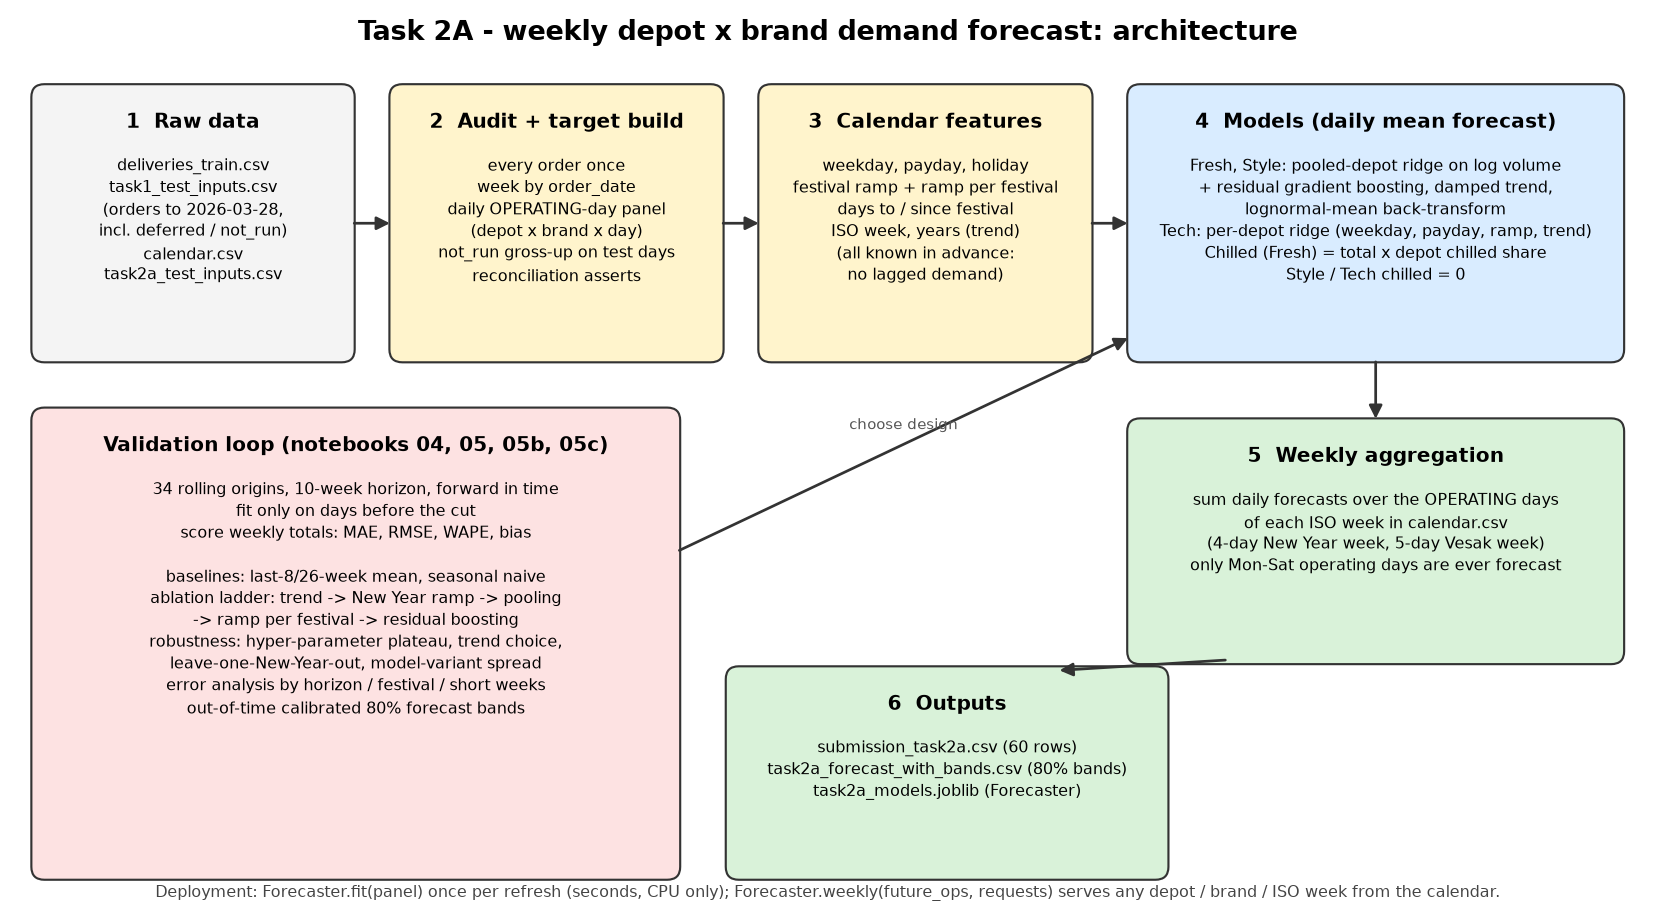
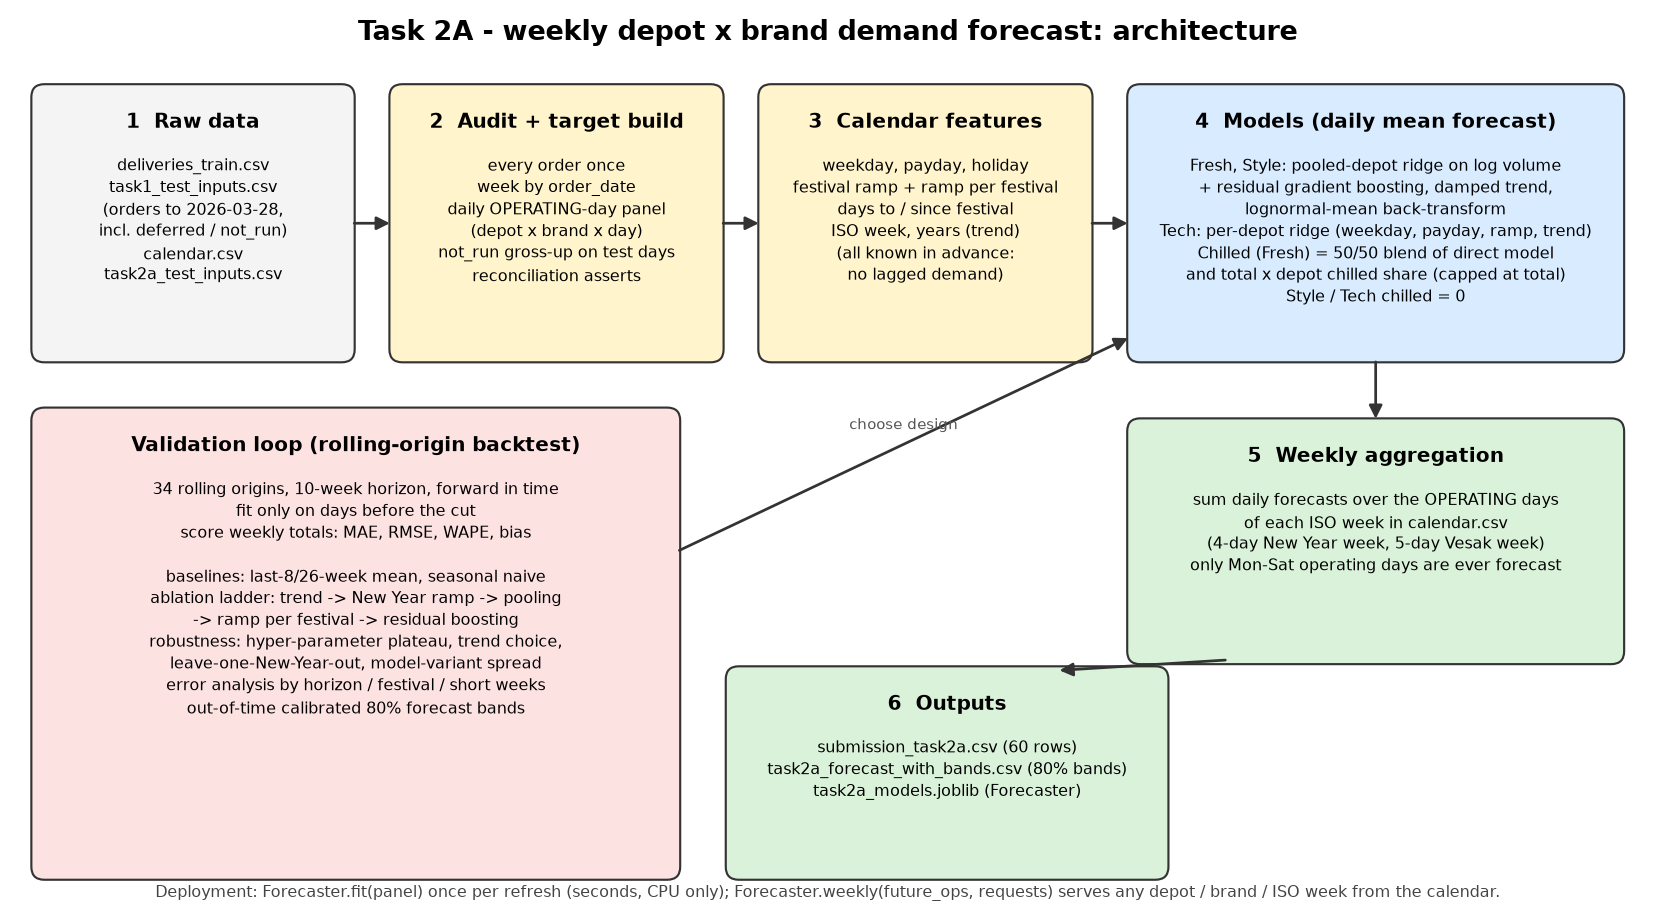
Refactor Task 2A and Task 2B documentation; update architecture diagram for clarity

Changed region(s): [[0.7088, 0.2448, 0.9553, 0.3366], [0.0616, 0.459, 0.3698, 0.5202]]

diff --git a/tools/task2a/make_task2a_architecture.py b/tools/task2a/make_task2a_architecture.py
@@ -28,7 +28,7 @@ ax.text(7.5, 7.95, "Task 2A - weekly depot x brand demand forecast: architecture
 box(0.2, 5.0, 2.9, 2.5, "1  Raw data", "deliveries_train.csv\ntask1_test_inputs.csv\n(orders to 2026-03-28,\nincl. deferred / not_run)\ncalendar.csv\ntask2a_test_inputs.csv", "#f4f4f4")
 box(3.5, 5.0, 3.0, 2.5, "2  Audit + target build", "every order once\nweek by order_date\ndaily OPERATING-day panel\n(depot x brand x day)\nnot_run gross-up on test days\nreconciliation asserts", "#fff4cc")
 box(6.9, 5.0, 3.0, 2.5, "3  Calendar features", "weekday, payday, holiday\nfestival ramp + ramp per festival\ndays to / since festival\nISO week, years (trend)\n(all known in advance:\nno lagged demand)", "#fff4cc")
-box(10.3, 5.0, 4.5, 2.5, "4  Models (daily mean forecast)", "Fresh, Style: pooled-depot ridge on log volume\n+ residual gradient boosting, damped trend,\nlognormal-mean back-transform\nTech: per-depot ridge (weekday, payday, ramp, trend)\nChilled (Fresh) = total x depot chilled share\nStyle / Tech chilled = 0", "#d9ecff")
+box(10.3, 5.0, 4.5, 2.5, "4  Models (daily mean forecast)", "Fresh, Style: pooled-depot ridge on log volume\n+ residual gradient boosting, damped trend,\nlognormal-mean back-transform\nTech: per-depot ridge (weekday, payday, ramp, trend)\nChilled (Fresh) = 50/50 blend of direct model\nand total x depot chilled share (capped at total)\nStyle / Tech chilled = 0", "#d9ecff")
 arrow(3.1, 6.25, 3.5, 6.25); arrow(6.5, 6.25, 6.9, 6.25); arrow(9.9, 6.25, 10.3, 6.25)
 
 box(10.3, 2.2, 4.5, 2.2, "5  Weekly aggregation", "sum daily forecasts over the OPERATING days\nof each ISO week in calendar.csv\n(4-day New Year week, 5-day Vesak week)\nonly Mon-Sat operating days are ever forecast", "#d9f2d9")
@@ -37,7 +37,7 @@ arrow(12.55, 5.0, 12.55, 4.4)
 box(6.6, 0.2, 4.0, 1.9, "6  Outputs", "submission_task2a.csv (60 rows)\ntask2a_forecast_with_bands.csv (80% bands)\ntask2a_models.joblib (Forecaster)", "#d9f2d9")
 arrow(11.2, 2.2, 9.6, 2.1)
 
-box(0.2, 0.2, 5.9, 4.3, "Validation loop (notebooks 04, 05, 05b, 05c)", "34 rolling origins, 10-week horizon, forward in time\nfit only on days before the cut\nscore weekly totals: MAE, RMSE, WAPE, bias\n\nbaselines: last-8/26-week mean, seasonal naive\nablation ladder: trend -> New Year ramp -> pooling\n-> ramp per festival -> residual boosting\nrobustness: hyper-parameter plateau, trend choice,\nleave-one-New-Year-out, model-variant spread\nerror analysis by horizon / festival / short weeks\nout-of-time calibrated 80% forecast bands", "#fde2e2")
+box(0.2, 0.2, 5.9, 4.3, "Validation loop (rolling-origin backtest)", "34 rolling origins, 10-week horizon, forward in time\nfit only on days before the cut\nscore weekly totals: MAE, RMSE, WAPE, bias\n\nbaselines: last-8/26-week mean, seasonal naive\nablation ladder: trend -> New Year ramp -> pooling\n-> ramp per festival -> residual boosting\nrobustness: hyper-parameter plateau, trend choice,\nleave-one-New-Year-out, model-variant spread\nerror analysis by horizon / festival / short weeks\nout-of-time calibrated 80% forecast bands", "#fde2e2")
 arrow(6.1, 3.2, 10.3, 5.2, "choose design")
 
 ax.text(7.5, 0.0, "Deployment: Forecaster.fit(panel) once per refresh (seconds, CPU only); Forecaster.weekly(future_ops, requests) serves any depot / brand / ISO week from the calendar.",

diff --git a/HackBots_Datathon_Submision/docs/Task2A_Data_Preprocessing.md b/HackBots_Datathon_Submision/docs/Task2A_Data_Preprocessing.md
@@ -1,10 +1,10 @@
 # Task 2A - Data preparation, label construction, features and model
 
 **Team HackBots - Tech-Triathlon 2026 Datathon.**
-Code: all Task 2A code is reproduced in `HackBots_FinalNotebook.ipynb` (Task 2A sections). Notebook numbers below (01-06) refer to the development notebooks in our repository.
+Code: all Task 2A code is in `HackBots_FinalNotebook.ipynb` (Task 2A sections).
 Outputs: `predictions/submission_task2a.csv` (+ `task2a_forecast_with_bands.csv`), `models/task2a_models.joblib`, `docs/architecture/task2a_architecture.png`.
 
-## 1. Data preparation (notebooks 01-02)
+## 1. Data preparation
 
 | Step | What we did | Result |
 |---|---|---|
@@ -15,7 +15,7 @@ Outputs: `predictions/submission_task2a.csv` (+ `task2a_forecast_with_bands.csv`
 | Not-run gross-up | The Task 1 test file has no `not_run` orders, so the days from 2026-02-16 are scaled by `1/(1 - train not_run share)` per series. | 0% to 2.6% depending on the series; derived from train only. |
 | Reconciliation | Asserts: one row per series x day; panel total equals raw order total on untouched days. | Pass. |
 
-## 2. What drives demand (notebooks 01, 03)
+## 2. What drives demand
 - Order **counts** follow a fixed weekday schedule (Fresh Peliyagoda 79/88/77/87/75/84 Mon-Sat, std < 1). Style and Tech order only on depot-specific weekdays. Demand therefore moves through order **size**.
 - Size rises with `festival_ramp`, on paydays (about +10-12%), on Fri/Sat, and with slow growth for Fresh. Monsoon has no demand effect.
 - **Festivals differ in size**: the Sinhala New Year run-up lifts Fresh volume far more than Vesak, Poson or Esala, so each festival gets its own ramp feature.
@@ -25,14 +25,14 @@ Outputs: `predictions/submission_task2a.csv` (+ `task2a_forecast_with_bands.csv`
 ## 3. Features (all known in advance from `calendar.csv`)
 Weekday dummies, `is_payday`, `is_holiday`, `festival_ramp` and its square, one ramp per festival (`r_new_year`, `r_vesak`, `r_poson`, ...), damped trend (years since 2024-01-01), and for the residual learner: days to next / since last festival and ISO week. No lagged demand is used, so a 10-week horizon needs no recursion.
 
-## 4. Model (notebook 05)
+## 4. Model
 Every model forecasts **mean daily volume on operating days**; the weekly forecast is the sum over the operating days of each ISO week, so holidays and short weeks are handled structurally.
 - **Fresh:** one ridge on log daily volume for both depots (depot x weekday intercepts, depot trend), back-transformed with the lognormal mean, plus a small boosting model (depth 3, 60 trees) on the ridge residuals. Damped trend (phi 0.9 per week).
 - **Style:** the same, **without a trend** (the backtest prefers it on every metric).
 - **Tech:** per-depot ridge on volume with weekday, payday, ramp and damped trend, strongly regularised (the series is mostly noise).
 - **Chilled (Fresh):** 50/50 blend of a direct chilled model and total x chilled share, capped at total. Style / Tech chilled = 0.
 
-## 5. Validation (notebooks 04, 05, 05b, 05c)
+## 5. Validation
 34 rolling origins (every 2 weeks from 2024-10-07), 10-week horizon, forward in time; scored on weekly depot x brand totals with MAE, RMSE, WAPE and bias.
 
 | Series | Final model MAE / RMSE / WAPE | Best baseline WAPE |
@@ -46,7 +46,7 @@ Fresh ablation (WAPE): no trend 5.2% -> damped trend 4.0% -> New Year ramp 3.6% 
 
 Selection rules followed: ridge first, boosting kept only if consistently helpful (better in 21/34 Fresh and 25/34 Style origins, better median, clear gain in festival windows); trend chosen per brand by lowest rolling error (Fresh damped ~ full; Style none; Tech damped); mean-based forecasts; all three metrics agree on best and worst models.
 
-Robustness (05c): hyper-parameter sweeps form a plateau (Fresh WAPE 3.15-3.23%); dropping either observed New Year changes the week 15-16 forecast by about 1%; plausible model variants agree within about 1% except week 22.
+Robustness: hyper-parameter sweeps form a plateau (Fresh WAPE 3.15-3.23%); dropping either observed New Year changes the week 15-16 forecast by about 1%; plausible model variants agree within about 1% except week 22.
 
 Tested and rejected: festival-specific effects shared across all festivals (week 22 over-forecast by 8-10%), catch-up demand features around closures, weekday-specific chilled shares, Poisson and Poisson-boosting models for Tech, and a multiplicative correction for Style festival weeks (unstable across split directions).
 

diff --git a/HackBots_Datathon_Submision/docs/Task2B_Data_Preprocessing.md b/HackBots_Datathon_Submision/docs/Task2B_Data_Preprocessing.md
@@ -1,6 +1,6 @@
 # Task 2B – Data Preparation
 
-Task 2B (peak-day allocation, scenario S1, Peliyagoda) uses no trained model, so there is no label construction or feature engineering. Preparation consists of loading five files, removing unavailable vehicles, joining orders to vehicle and travel data, and computing trip time. This is implemented in `load()` and `trip_minutes()` in the Task 2B section of `HackBots_FinalNotebook.ipynb`.
+Task 2B (peak-day allocation, scenario S1, Peliyagoda) uses no trained model, so there is no label construction or feature engineering. Preparation consists of loading five files, removing unavailable vehicles, joining orders to vehicle and travel data, and computing trip time. The code is in the Task 2B section of `HackBots_FinalNotebook.ipynb`.
 
 ## 1. Inputs
 
